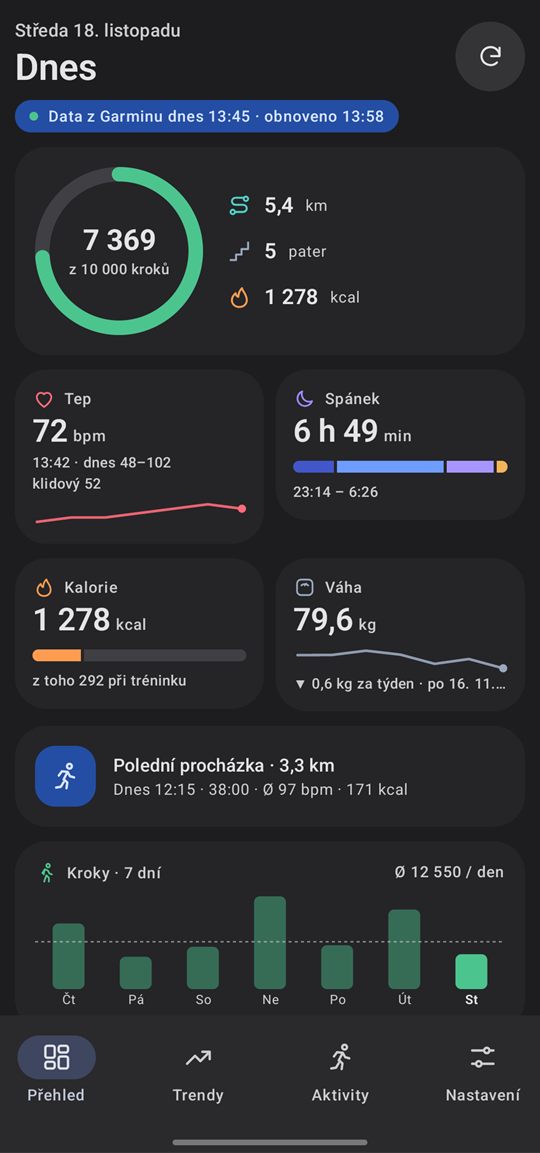
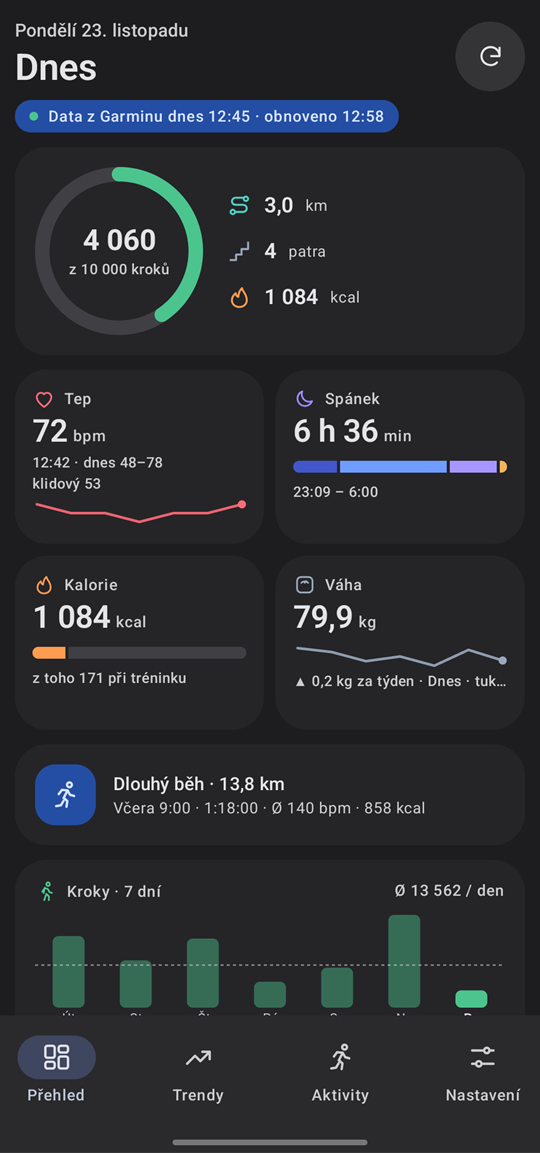
fix data box height similar with next

diff --git a/app/src/main/kotlin/cz/healthwidgy/ui/overview/OverviewScreen.kt b/app/src/main/kotlin/cz/healthwidgy/ui/overview/OverviewScreen.kt
@@ -29,7 +29,10 @@ import androidx.compose.ui.Alignment
 import androidx.compose.ui.Modifier
 import androidx.compose.ui.graphics.Color
 import androidx.compose.ui.text.font.FontWeight
+import androidx.compose.ui.layout.Layout
 import androidx.compose.ui.text.style.TextOverflow
+import androidx.compose.ui.unit.Constraints
+import androidx.compose.ui.unit.Dp
 import androidx.compose.ui.unit.dp
 import androidx.compose.ui.unit.sp
 import androidx.lifecycle.compose.LifecycleResumeEffect
@@ -117,14 +120,7 @@ private fun OverviewContent(overview: Overview, error: String?, actions: Overvie
     item { HeroCard(overview, onClick = { actions.openMetric(MetricDefs.Steps.id) }) }
 
     val tiles = buildTiles(overview, actions)
-    tiles.chunked(2).forEach { row ->
-      item {
-        Row(horizontalArrangement = Arrangement.spacedBy(8.dp), modifier = Modifier.fillMaxWidth()) {
-          row.forEach { tile -> Box(Modifier.weight(1f)) { tile() } }
-          if (row.size == 1) Spacer(Modifier.weight(1f))
-        }
-      }
-    }
+    if (tiles.isNotEmpty()) item { TileGrid(tiles) }
 
     overview.workout?.let { w -> item { WorkoutCard(overview, onClick = { actions.openWorkout(w.id) }) } }
 
@@ -226,6 +222,27 @@ private fun buildTiles(overview: Overview, actions: OverviewActions): List<Tile>
   overview.sleep?.let { add { SleepTile(overview, actions.openSleep) } }
   if (overview.totalKcal != null || overview.activeKcal != null) add { CaloriesTile(overview) { actions.openMetric(MetricDefs.TotalKcal.id) } }
   overview.weight?.let { add { WeightTile(overview, actions.openBody) } }
+}
+
+/**
+ * The tiles two per row, every one as tall as the tallest, so neighbours (and the rows) line up even
+ * when a tile has less to show. Content stays at the top of a taller tile.
+ */
+@Composable
+private fun TileGrid(tiles: List<Tile>, spacing: Dp = 8.dp) {
+  Layout(
+    content = { tiles.forEach { tile -> Box(propagateMinConstraints = true) { tile() } } },
+    modifier = Modifier.fillMaxWidth(),
+  ) { measurables, constraints ->
+    val gap = spacing.roundToPx()
+    val width = (constraints.maxWidth - gap) / 2
+    val height = measurables.maxOfOrNull { it.maxIntrinsicHeight(width) } ?: 0
+    val placeables = measurables.map { it.measure(Constraints.fixed(width, height)) }
+    val rows = (placeables.size + 1) / 2
+    layout(constraints.maxWidth, rows * height + (rows - 1).coerceAtLeast(0) * gap) {
+      placeables.forEachIndexed { i, p -> p.place(x = i % 2 * (width + gap), y = i / 2 * (height + gap)) }
+    }
+  }
 }
 
 @Composable
